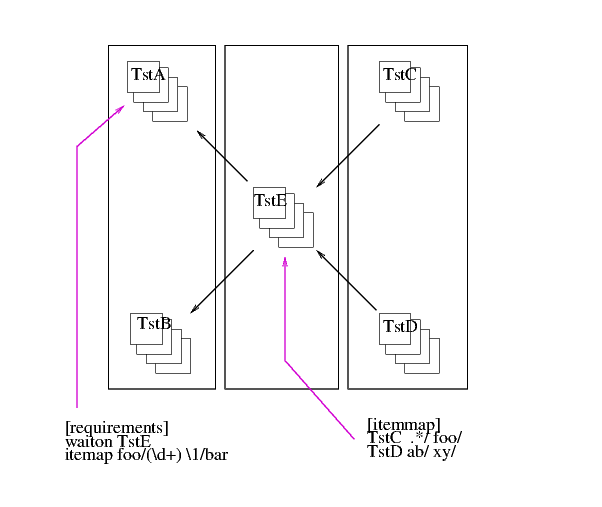
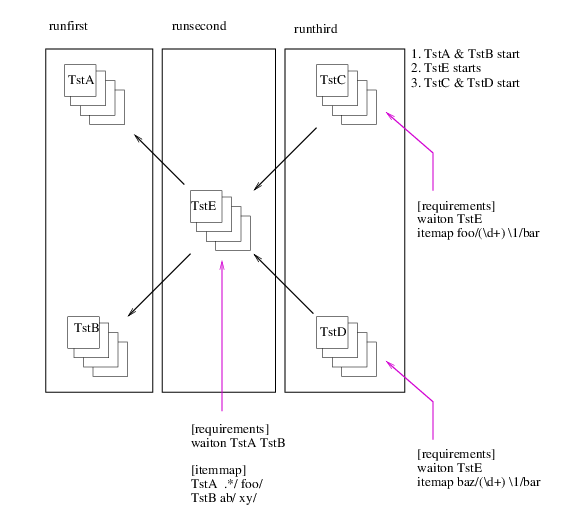
Partially implemented, fully documented new itemmap mechanism

diff --git a/docs/manual/megatest_manual.html b/docs/manual/megatest_manual.html
@@ -1254,9 +1254,64 @@ itemmap (a\d+)(b\d+) \2foo\1
 <div class="paragraph"><p>Complex mappings can be handled with the [itemmap] section</p></div>
 <div class="imageblock">
 <div class="content">
-<img src="itemmap.png" alt="itemmap.png">
+<img src="complex-itemmap.png" alt="complex-itemmap.png">
 </div>
 </div>
+<div class="paragraph"><p>Example:</p></div>
+<div class="olist arabic"><ol class="arabic">
+<li>
+<p>
+Request to run D/1/res
+</p>
+</li>
+<li>
+<p>
+Megatest calculates all posible items for Test C and filters down to: C/1/aa
+</p>
+</li>
+<li>
+<p>
+Full list to be run is now: D/1/res, C/1/aa
+</p>
+</li>
+<li>
+<p>
+Megatest calculates all posible items for Test A and filters down to: A/aa/1
+</p>
+</li>
+<li>
+<p>
+Full list to be run is now: D/1/res, C/1/aa, A/aa/1
+</p>
+</li>
+</ol></div>
+<div class="listingblock">
+<div class="title">Testconfig for Test C</div>
+<div class="content monospaced">
+<pre>[requirements]
+waiton A B
+
+[itemmap]
+A (\d+)/aa aa/\1
+B (\d+)/bb bb/\1</pre>
+</div></div>
+<div class="listingblock">
+<div class="title">Testconfig for Test D</div>
+<div class="content monospaced">
+<pre>[requirements]
+waiton C
+itemmap (\d+)/res \1/aa</pre>
+</div></div>
+<div class="listingblock">
+<div class="title">Testconfig for Test E</div>
+<div class="content monospaced">
+<pre>[requirements]
+waiton C
+itemmap (\d+)/res \1/bb</pre>
+</div></div>
+</div>
+<div class="sect3">
+<h4 id="_dynamic_flow_dependency_tree">Dynamic Flow Dependency Tree</h4>
 <div class="listingblock">
 <div class="title">Autogeneration waiton list for dynamic flow dependency trees</div>
 <div class="content monospaced">
